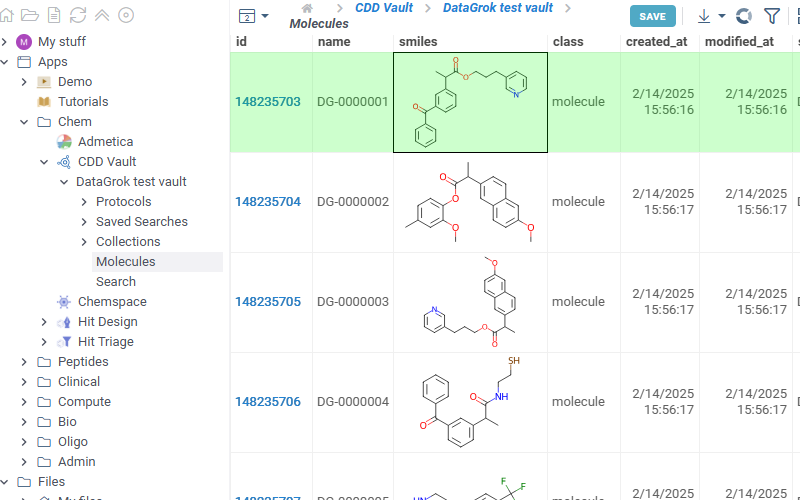
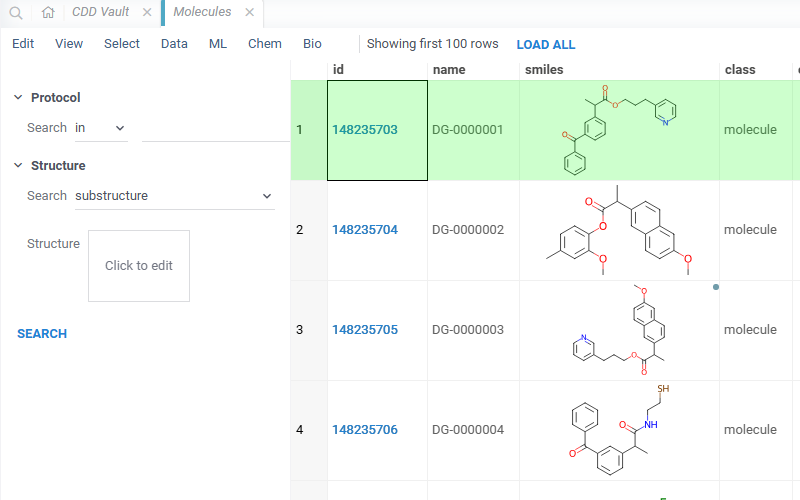
CDDVaultLink: Updated readme

diff --git a/packages/CddVaultLink/README.md b/packages/CddVaultLink/README.md
@@ -4,24 +4,66 @@
 provides integration with [CDD Vault](https://www.collaborativedrug.com/cdd-informatics-platform) registration system.
 
 To use the plugin you need to be registered in the CDD Vault system and have at least one vault set up.
-CDD Vault api key should be set in package credentials manager under 'apiKey' key.
+Your CDD Vault API key must be set in the package credentials manager under the `apiKey` key.
 
-To use the application, go to *Browse panel* -> *Apps* -> *Chem* -> *CDD Vault*.
-List of all available vaults is opened under *CDD Vault* tab. Each vault contains several tabs:
+## Opening the app
 
-* *Protocols* - the list of all available protocols for the vault. Protocol metadata is available in the context panel.
+Go to *Browse panel* → *Apps* → *Chem* → *CDD Vault*. The landing view shows a summary of your available vaults (project list, molecule / protocol / batch / collection counts). Each vault expands into its own set of tabs.
+
+![CDD Vault landing](images/vaults_landing.png)
+
+## Tabs
+
+Each vault exposes the following tabs:
+
+### Protocols
+
+The list of all protocols defined in the vault. Clicking a protocol opens a table of molecules measured under that protocol; protocol metadata (readout definitions, runs, calculations, category, etc.) is shown in the context panel on the right.
+
 ![Protocols tab](images/protocols.png)
 
-* *Collections* - the list of all collections associated with your vault.
+### Collections
 
-* *Saved searches* - open tab to see the list of all saved searches in your vault. Click any search in the list to open the search results.
+The list of collections associated with your vault. Clicking a collection opens its member molecules.
+
+### Saved searches
+
+Server-side searches defined in CDD Vault. Clicking a saved search executes it against the vault and opens the results as a table.
+
 ![Saved search](images/saved_search.png)
 
-* *Molecules* - the list of all available molecules in the vault. *Id* column contains links to the corresponding molecules in your vault.
-![Molecules tab](images/molecules.png)
+### Molecules
 
-* *Search* - basic search through you vault containing similarity and diversity searches.
-![Search tab](images/search.png)
+All molecules in the vault. The `id` column links out to the corresponding molecule page in CDD Vault.
 
-There is also a tab in the context panel. To use, click or sketch a molecule, and expand the *Databases* -> *CDD Vault* context panel on the right:
+The Molecules tab also hosts the **Search side-panel** — an expandable filters panel for structure search (exact / similarity / substructure) combined with optional protocol / run filters. The last search is remembered per vault and restored when you return to the Molecules tab.
+
+![Molecules tab with search panel](images/molecules.png)
+![Search in action](images/search.gif)
+
+### Batches
+
+All batches in the vault — specific physical lots of molecules (salt form, formula weight, stoichiometry, batch-level UDFs). Each row links back to its parent molecule.
+
+## Tab loading: preview + Load all
+
+Every data tab opens with a **first-100-rows preview** so you can start exploring immediately. If more rows exist, a ribbon appears above the table:
+
+> Showing first 100 rows   `[Load all]`
+
+Click **Load all** to fetch the full dataset in the background (a task-bar progress indicator shows progress). When it completes, the view swaps to the full data and the ribbon updates to *"Showing all N rows"*. If you switch tabs before the load finishes, the background request is discarded — no unexpected table swaps.
+
+![Load all flow](images/load_all.gif)
+
+## Molecule context panel
+
+Click or sketch a molecule anywhere in Datagrok, then expand the *Databases → CDD Vault* section on the right to see the matching CDD Vault record (structure, identifiers, properties, batches, and deep link out).
+
 ![Context panel](images/context_panel.png)
+
+## Setup
+
+1. Log in to the Datagrok platform.
+2. Install the **CDD Vault Link** package.
+3. Open the package settings → Credentials and set `apiKey` to your CDD Vault API token. The token is used for all CDD calls made by the plugin.
+4. Open *Browse* → *Apps* → *Chem* → *CDD Vault*.
